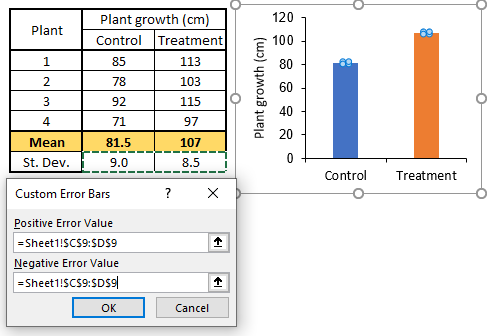
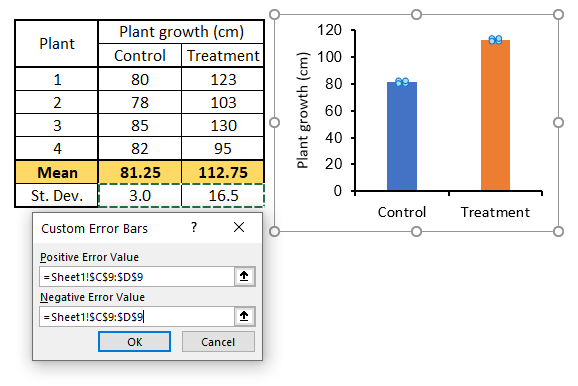
Update bar-graphs-add-error

diff --git a/bar-graphs-add-error.md b/bar-graphs-add-error.md
@@ -10,20 +10,22 @@ permalink: bar-graphs-add-error
 
 Imagine you do an experiment with two groups of plants. You measure how much plants grow after a certain period of time without treatment (control) and with treatment. There are four plants for the control group and four plants for the treatment group. 
 
-Your data look like this:
+Your data look like this (there are no error bars):
 
 <figure>
     <img src="assets/bar-errors-1.png"
+         width="600"
          alt="Bar graph data">
 </figure>
+
 ##### To add the standard deviation as error bars to your graph follow these steps:
 
 1. Click on the chart to reveal the "Chart Elements" button
 <figure>
     <img src="assets/bar-errors-2.png"
-         width="350"
          alt="Chart elements button">
 </figure>
+
 
 
 2. Click the "Chart Elements" button and navigate to "Error Bars" > "More Options..."
@@ -47,6 +49,15 @@ The "Format Error Bars" menu will open on the right-hand side of the Excel windo
 </figure>
 
 You are done! The error bars are now in your graph, and each bar has its corresponding error value.
+
+<figure>
+    <img src="assets/bar-errors-6.png"
+         alt="Final result">
+</figure>
+
+Note that each bar has its own error value. In other words, each category (control or treatment) has a different size of error bar corresponding to each category's standard deviation.
+
+Excel version used: Microsoft 365 (Version 2105)
 
 ---
 ## Additional resources
